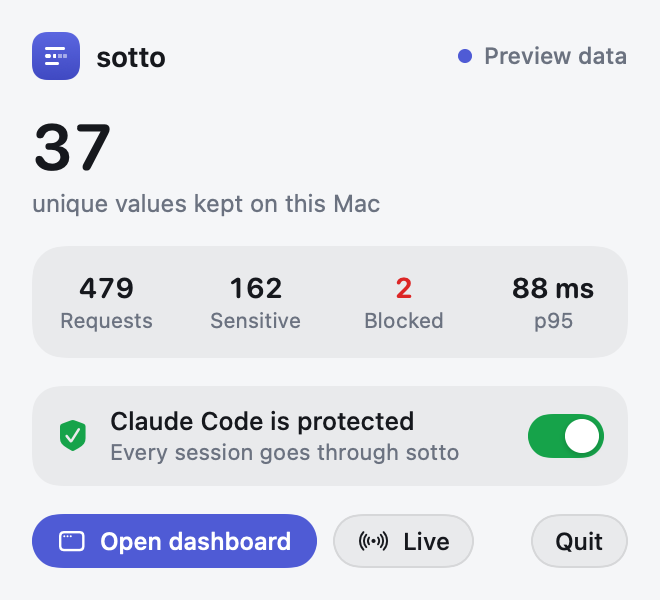
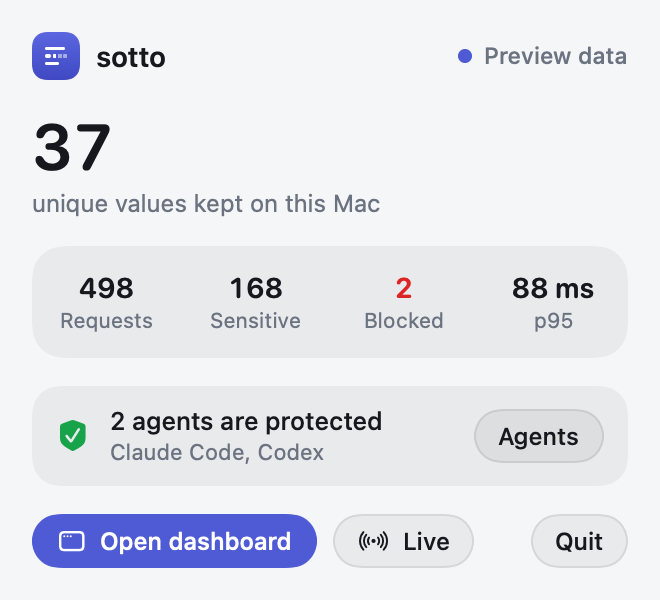
docs: update screenshots; menu bar names every protected agent
- README and mac/README screenshots re-rendered from the current build
  (flow bands, Detection, Settings with per-agent switches, Activity)
- the menu bar row said "Claude Code is protected" whatever else was on;
  it now names the protected agents (Claude Code, Codex, pi) and opens
  Settings, where each has its own switch

diff --git a/mac/Sources/Sotto/Setup.swift b/mac/Sources/Sotto/Setup.swift
@@ -79,7 +79,6 @@ struct SetupCard: View {
     }
 }
 
-/// On only when the service runs: Claude Code must never be pointed at a proxy that is not there.
 /// One coding agent under step 3: its switch, or why it has none.
 private struct ClientRow: View {
     var engine: Engine
@@ -121,17 +120,6 @@ private struct ClientRow: View {
     }
 }
 
-struct ProtectionToggle: View {
-    var engine: Engine
-
-    var body: some View {
-        let canTurnOn = engine.serviceRunning && engine.hasModel
-        Switch(isOn: engine.protected, enabled: !engine.busy && (engine.protected || canTurnOn)) { on in
-            Task { await engine.setProtection(on) }
-        }
-    }
-}
-
 /// A switch drawn in SwiftUI, so it looks the same in both appearances and in snapshots.
 struct Switch: View {
     var isOn: Bool
@@ -164,7 +152,7 @@ struct ProtectionRow: View {
 
     var body: some View {
         HStack(spacing: 10) {
-            Image(systemName: engine.protected ? (engine.serviceRunning ? "checkmark.shield.fill" : "exclamationmark.shield.fill") : "shield")
+            Image(systemName: engine.anyProtected ? (engine.serviceRunning ? "checkmark.shield.fill" : "exclamationmark.shield.fill") : "shield")
                 .font(.system(size: 16)).foregroundStyle(color)
             VStack(alignment: .leading, spacing: 1) {
                 Text(title).font(.system(size: 12.5, weight: .medium)).foregroundStyle(Theme.text)
@@ -172,7 +160,7 @@ struct ProtectionRow: View {
             }
             Spacer()
             if engine.hasModel && engine.serviceRunning {
-                ProtectionToggle(engine: engine)
+                PillButton(title: "Agents", action: openSetup)  // one switch per agent, in Settings
             } else if engine.isBundled {
                 PillButton(title: "Set up", prominent: true, action: openSetup)
             }
@@ -181,20 +169,29 @@ struct ProtectionRow: View {
         .background(RoundedRectangle(cornerRadius: 14, style: .continuous).fill(Theme.faint))
     }
 
+    /// The coding agents protected right now, by name.
+    private var protectedNames: [String] {
+        [("claude", "Claude Code"), ("codex", "Codex"), ("pi", "pi")].compactMap { engine.client($0.0)?.on == true ? $0.1 : nil }
+    }
+
     private var title: String {
-        if engine.protected { return engine.serviceRunning ? "Claude Code is protected" : "sotto is not running" }
-        return "Claude Code is not protected"
+        let names = protectedNames
+        if names.isEmpty { return "No coding agent is protected" }
+        if !engine.serviceRunning { return "sotto is not running" }
+        return names.count == 1 ? "\(names[0]) is protected" : "\(names.count) agents are protected"
     }
 
     private var subtitle: String {
-        if engine.protected && !engine.serviceRunning { return "Claude Code cannot connect until it restarts" }
-        if engine.protected { return "Every session goes through sotto" }
-        if !engine.isBundled { return "Use sotto claude in a terminal" }
-        return engine.hasModel && engine.serviceRunning ? "Only sotto claude sessions are scanned" : "Finish setup to protect every session"
+        let names = protectedNames
+        if !names.isEmpty && !engine.serviceRunning { return "They cannot connect until sotto restarts" }
+        if names.count > 1 { return names.joined(separator: ", ") }
+        if names.count == 1 { return "Every session goes through sotto" }
+        if !engine.isBundled { return "Use sotto claude or sotto codex in a terminal" }
+        return engine.hasModel && engine.serviceRunning ? "Only sotto claude and sotto codex are scanned" : "Finish setup to protect every session"
     }
 
     private var color: Color {
-        if engine.protected { return engine.serviceRunning ? Theme.success : Theme.danger }
+        if engine.anyProtected { return engine.serviceRunning ? Theme.success : Theme.danger }
         return Theme.secondary
     }
 }

diff --git a/mac/README.md b/mac/README.md
@@ -12,6 +12,9 @@ A menu-bar app that sets sotto up, runs it in the background and shows what it d
 
 ![Overview, light](docs/overview-light.png)
 ![Overview, dark](docs/overview-dark.png)
+![Detection: per type, who found it, and your rules](docs/detection-light.png)
+![Settings: setup, one switch per coding agent, mode and exclusions](docs/settings-light.png)
+![Activity: every request, filterable](docs/activity-light.png)
 
 **Privacy.** The app reads sotto's stats feed (`/_sotto/stats`), which carries counts, types and timestamps only: never a value or a placeholder. It finds the proxy through `~/.config/sotto/runtime.json` (written by `sotto claude` and `sotto serve`; port 7788 otherwise). It authenticates with the token in `~/.config/sotto/stats-token` (mode 0600). It talks only to 127.0.0.1, sends no telemetry, and checks for no updates.
 

diff --git a/README.md b/README.md
@@ -10,7 +10,7 @@ Detection runs entirely on your Mac. Nothing is sent anywhere except the scanned
 
 > **Status: pre-release.** sotto works end to end, but it has not been audited. Treat it as a safety layer, not a guarantee. See [Limitations](#limitations).
 
-![The sotto dashboard: the live flow map shows where each request goes](mac/docs/overview-light.png)
+![The sotto dashboard: requests out and replies back, per coding agent](mac/docs/overview-light.png)
 
 ## How it works
 
